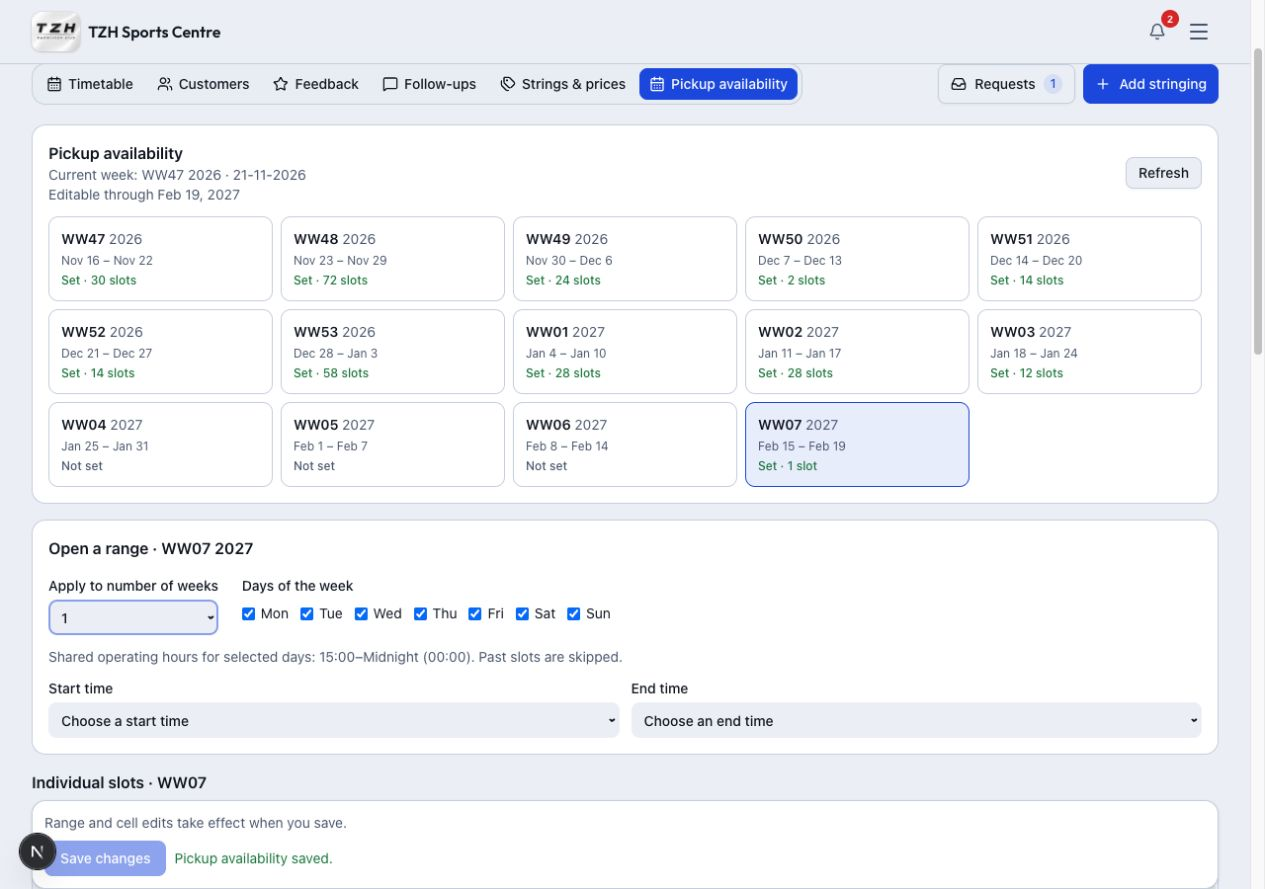
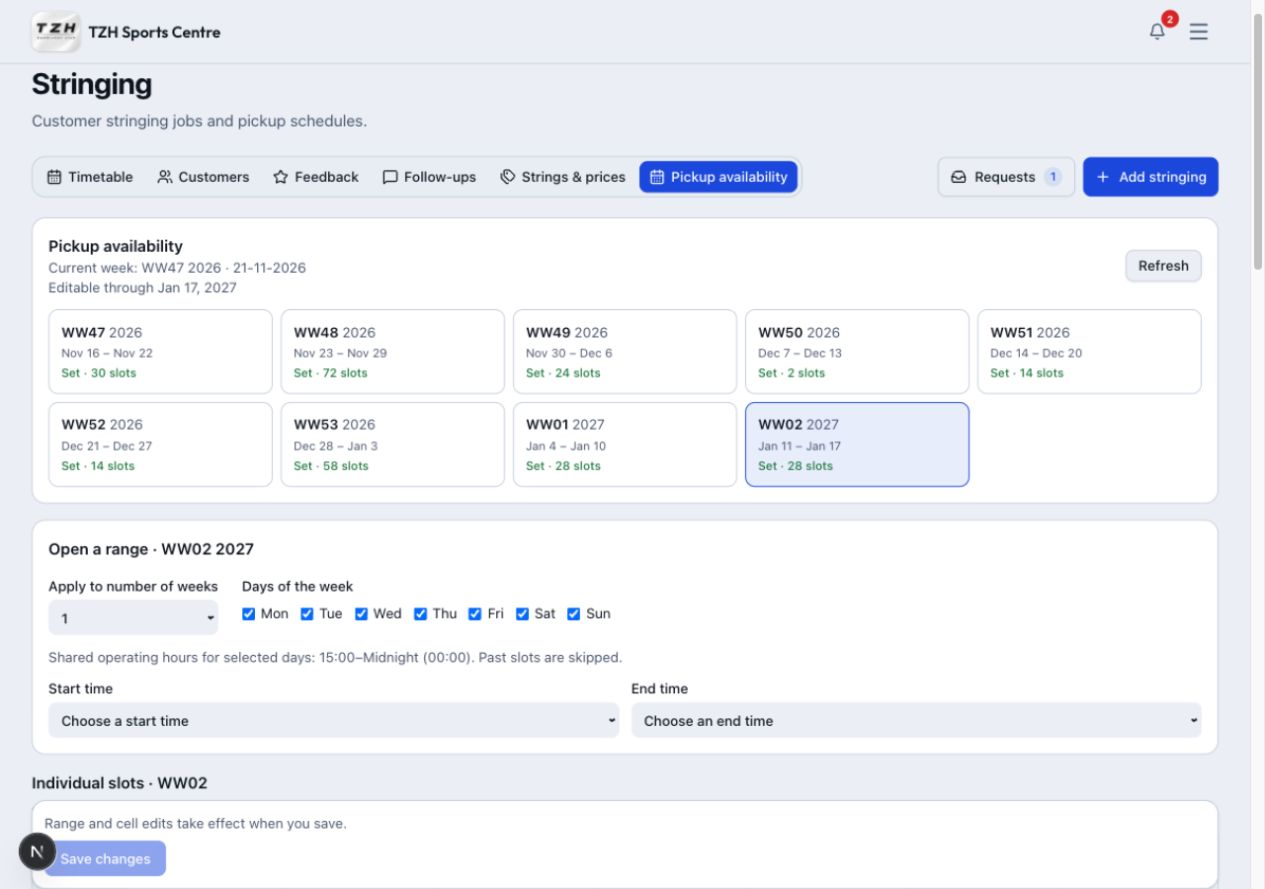
docs: show the last full week within 60 days

diff --git a/website/stringing.md b/website/stringing.md
@@ -19,9 +19,9 @@ For a complete example, follow [one customer visit from request through collecti
 <details>
 <summary><strong>Publish pickup availability</strong></summary>
 
-**Admin → Stringing → Pickup availability.** The page shows today's date and current week number. Choose a **WW** card. **Not set** means the week has no upcoming published slots. A **Set** card shows how many slots are published. **Editable through** shows the last date of the rolling 90-day window. The final week ends on that date.
+**Admin → Stringing → Pickup availability.** The page shows today's date and current week number. Choose a **WW** card. **Not set** means the week has no upcoming published slots. A **Set** card shows how many slots are published. **Editable through** shows the last Sunday inside the rolling 60-day window. The next week appears when its Sunday is inside the window.
 
-![The final week ends on the last editable date](../images/stringing/pickup-availability-cutoff.jpg)
+![The calendar shows the last fully covered week](../images/stringing/pickup-availability-cutoff.jpg)
 
 Under **Open a range**, choose the weeks and days, then pick a start and end time. The grid previews the openings immediately.
 

diff --git a/website/customer-stringing.md b/website/customer-stringing.md
@@ -44,7 +44,7 @@ If a photo is unavailable, the name and price remain selectable.
 
 ![Required specifications and grommet price](../images/stringing/customer-required-specification.png)
 
-Under **Timing**, choose a **Planned drop-off date**. The opening hours for that date appear below it. Choose one of the available **Pickup slots**, using **Next week** to see more dates. You can choose a published slot up to 90 days ahead. On a phone, swipe the table sideways to see later days.
+Under **Timing**, choose a **Planned drop-off date**. The opening hours for that date appear below it. Choose one of the available **Pickup slots**, using **Next week** to see more dates. You can choose a published slot up to 60 days ahead. On a phone, swipe the table sideways to see later days.
 
 ![Pick a 30-minute slot on a phone](../images/stringing/member-pickup-grid.jpg)
 

diff --git a/changelog/2026-11-16.md b/changelog/2026-11-16.md
@@ -30,4 +30,4 @@
 
 - [Save a range or individual stringing slots](../website/stringing.md) directly from the time selectors and weekly table. Awaiting deployment.
 
-- [Manage stringing availability up to 90 days ahead](../website/stringing.md) and show the cutoff on the admin calendar. Awaiting deployment.
+- [Show the last fully covered week](../website/stringing.md) on the admin calendar within the 60-day window. Awaiting deployment.
